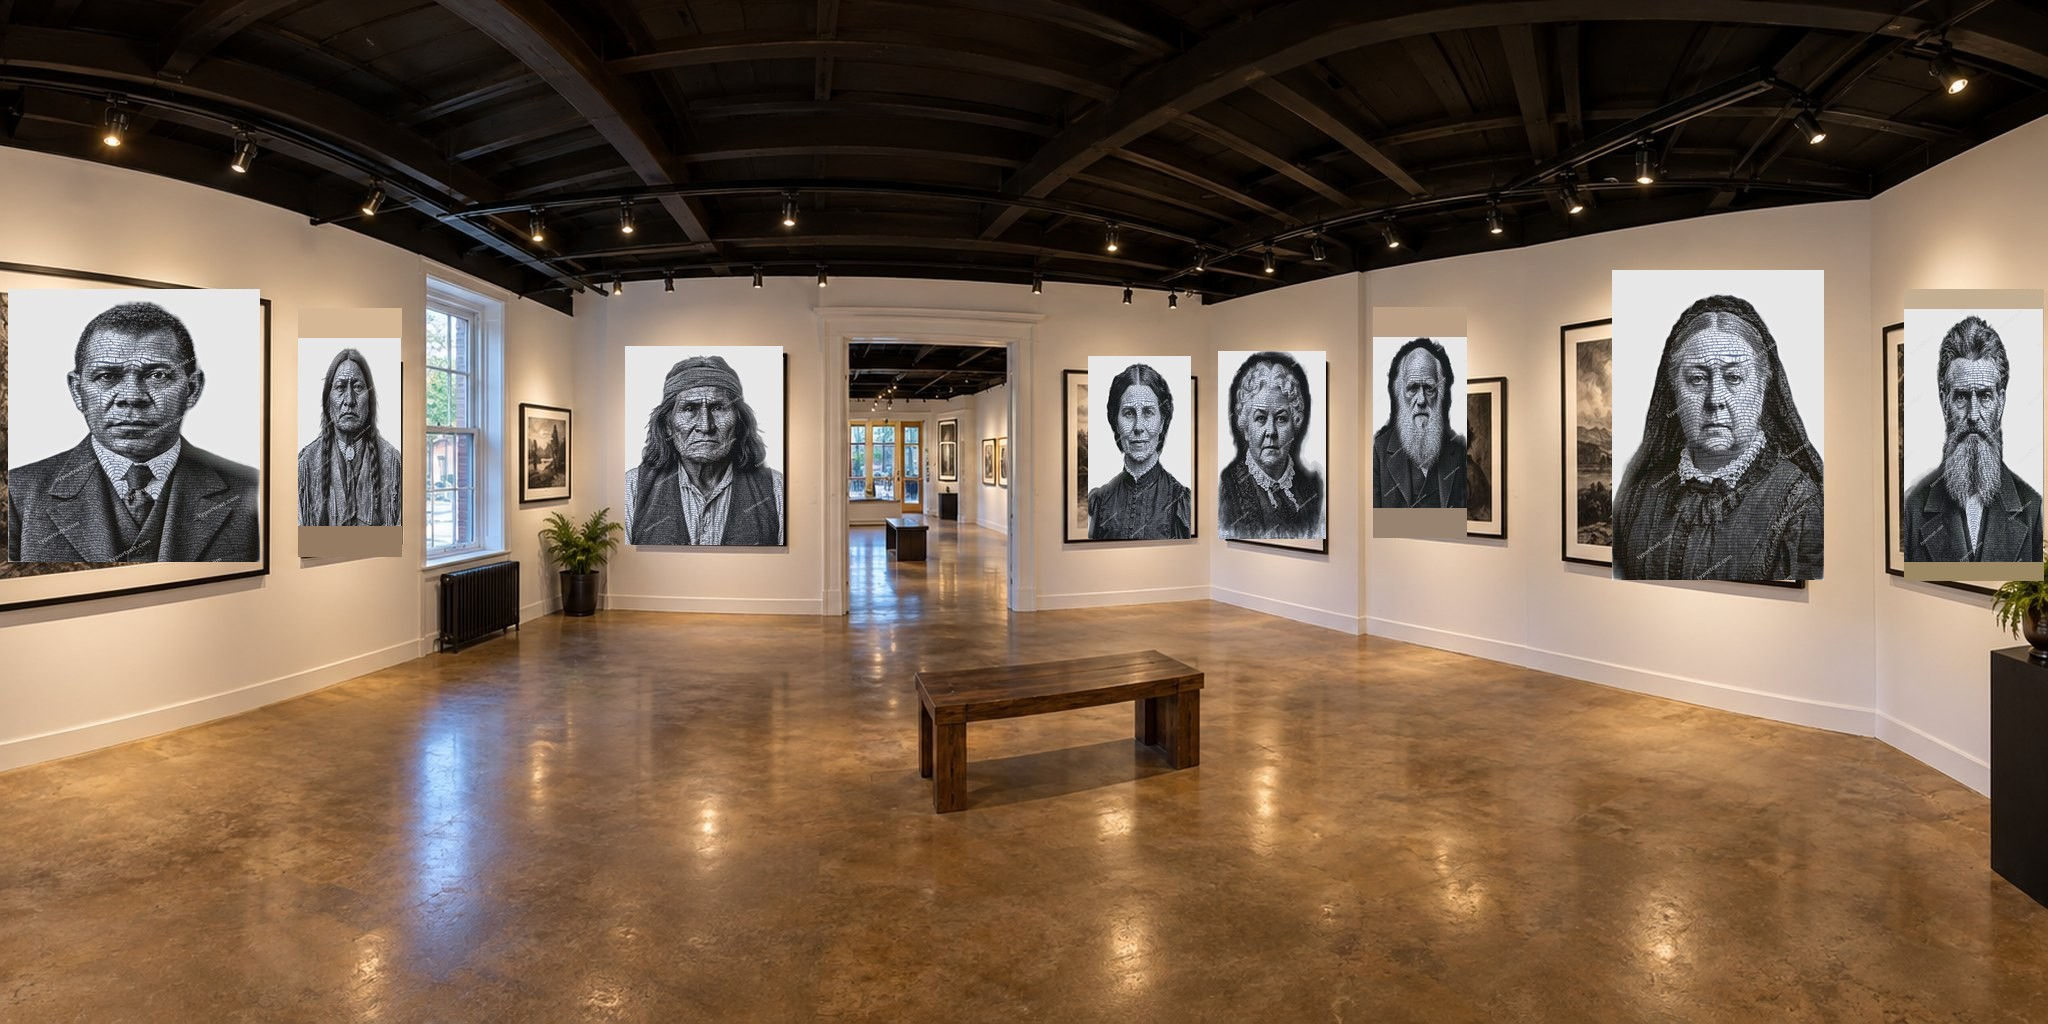
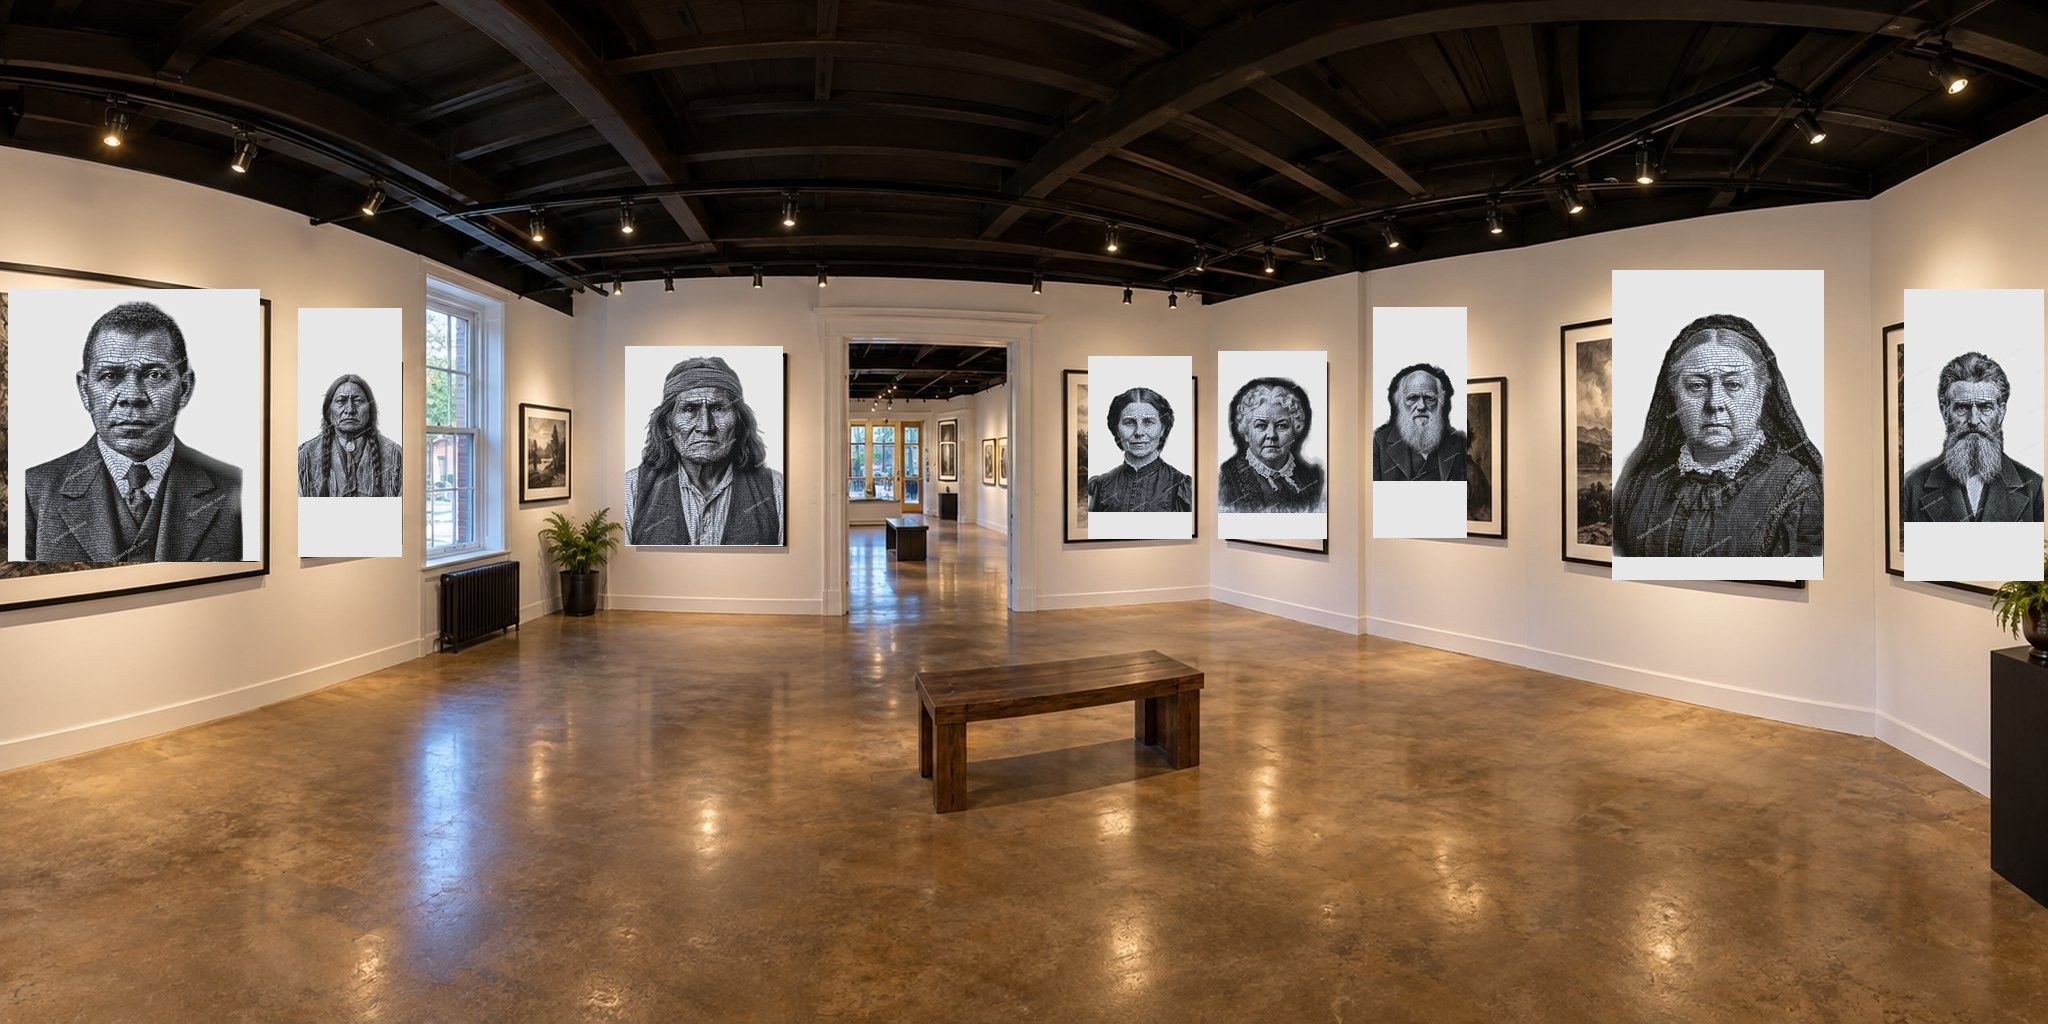
Fix photo tour: always fully replace the frame, never distort or leave a patch
The previous bake stretched each portrait to fill its measured frame region,
with a clamp for extreme-aspect frames that left a locally-color-sampled
margin instead of stretching. Both of those were still compromises: the
stretch distorted faces on odd-shaped frames, and the clamp's margin -- even
color-matched -- was still a patch standing in for something, not actually
part of the piece.

Replaced both with one rule, applied to every region the same way: resize
the portrait to its own true, undistorted proportions to fill as much of the
region as it can, then center it on a canvas of the portrait's OWN backdrop
color (sampled from the source PNGs themselves, consistent across the whole
catalog) sized to the full region. This always replaces the entire frame --
never leaves any of the original photographed art visible -- and never
stretches a face out of shape. Where a frame's real shape doesn't match a
portrait's, what fills the difference is more of that portrait's own plain
background, so it reads as the piece being mounted at whatever size the wall
called for, not as a crop, a stretch, or a patch standing in for one.

Claude-Session: https://claude.ai/code/session_01XwVU5cc41rNpqSZeMAKs6S

diff --git a/typography_engine/static/gallery.html b/typography_engine/static/gallery.html
@@ -464,7 +464,7 @@ let raycaster, pointerNDC;   // built in initRenderer, once THREE is actually lo
 // Each photo can only show as many portraits as it has real frames worth pasting into
 // (19 of 23 across all three rooms) -- the remaining 4 still sell fine from the grid
 // and the corridor, they just don't have a natural-looking wall spot in these photos.
-const PHOTO_BAKE_VERSION = 3;    // bump whenever the baked panorama JPGs are regenerated
+const PHOTO_BAKE_VERSION = 4;    // bump whenever the baked panorama JPGs are regenerated
 const PHOTO_ROOM_RADIUS = 900;   // the panorama sphere
 const PHOTO_FRAME_RADIUS = 650;  // depth of the invisible click targets (matches bake)
 // Yaw values below are pre-corrected for THREE's actual SphereGeometry UV convention

diff --git a/typography_engine/ops/photoscene-composite.py b/typography_engine/ops/photoscene-composite.py
@@ -34,11 +34,10 @@ do NOT re-derive yaw from pixel position by the "obvious" formula without this
 correction, or captions/click-targets will land near the right neighborhood but not on
 the actual baked portrait, which is exactly what happened here before this was found.
 """
-import json
 import math
 from pathlib import Path
 
-from PIL import Image, ImageStat
+from PIL import Image
 
 ROOT = Path(__file__).resolve().parent.parent
 ART_DIR = ROOT / "static/gallery/art"
@@ -86,46 +85,37 @@ W, H = 2048, 1024
 RADIUS = 650  # matches PHOTO_FRAME_RADIUS in gallery.html
 
 
-ART_ASPECT = 900 / 1125  # w/h of the source portrait PNGs (0.8)
-# How far a region's own aspect ratio may stretch the portrait before it's visibly
-# distorted (a squished-narrow or smeared-wide face) rather than just mildly stretched.
-ASPECT_BAND = (0.55, 1.5)
+# The portrait PNGs are a bust on a plain, near-uniform backdrop -- sampled from a
+# corner pixel, consistent across the whole catalog (checked several at (3,3)).
+ART_BG = (231, 231, 231)
 
 
 def inner_box(x0, y0, x1, y1):
-    """Full-bleed: the region minus a hairline margin for the real frame's own inner
-    edge. A first version tried to preserve the portrait's 4:5 aspect by fitting a
-    smaller centered box inside the region -- for any region whose real aspect ratio
-    wasn't close to 4:5 (most of them), that left a visible strip of the ORIGINAL
-    photographed art uncovered along one or two edges. Stretching to fill the region
-    completely eliminates that, and works fine for most regions -- but a handful are
-    extreme (a very wide landscape frame, or a very tall narrow one), and stretching a
-    portrait to fill THOSE smears or squishes the face into something unrecognizable.
-    See clamp_box() for how those are handled instead."""
+    """The region minus a hairline margin for the real frame's own inner edge -- the
+    area to fully replace."""
     margin_x, margin_y = (x1 - x0) * 0.03, (y1 - y0) * 0.03
     return x0 + margin_x, y0 + margin_y, x1 - margin_x, y1 - margin_y
 
 
-def clamp_box(bx0, by0, bx1, by1):
-    """For a region whose aspect ratio is too far from the portrait's to stretch
-    without visible distortion, shrink to the nearest aspect within ASPECT_BAND
-    (centered in the region) and report the leftover margin rectangles (0, 1 or 2 of
-    them -- one pair if clamped, none if the region was already within band) so the
-    caller can fill them separately instead of leaving the ORIGINAL art showing."""
-    w, h = bx1 - bx0, by1 - by0
-    aspect = w / h
-    cx, cy = (bx0 + bx1) / 2, (by0 + by1) / 2
-    if aspect > ASPECT_BAND[1]:              # region too wide -- clamp width
-        new_w = h * ASPECT_BAND[1]
-        px0, px1 = cx - new_w / 2, cx + new_w / 2
-        margins = [(bx0, by0, px0, by1), (px1, by0, bx1, by1)]
-        return (px0, by0, px1, by1), margins
-    if aspect < ASPECT_BAND[0]:               # region too narrow/tall -- clamp height
-        new_h = w / ASPECT_BAND[0]
-        py0, py1 = cy - new_h / 2, cy + new_h / 2
-        margins = [(bx0, by0, bx1, py0), (bx0, py1, bx1, by1)]
-        return (bx0, py0, bx1, py1), margins
-    return (bx0, by0, bx1, by1), []
+def fit_on_own_background(art, bw, bh):
+    """Resize the portrait to COVER the region at its own true aspect ratio (never
+    stretched or cropped into the subject) and place it centered on a canvas of the
+    art's own backdrop color, sized to the full region. Two earlier approaches both
+    replaced less than the whole region: fitting a smaller aspect-correct box inside
+    it left the ORIGINAL photographed art showing around the edges; stretching to fill
+    the region completely fixed that but visibly distorted the face on any frame whose
+    aspect ratio was far from the portrait's. This replaces the ENTIRE region every
+    time, at the portrait's real proportions every time -- the "leftover" space (when
+    the frame's own shape doesn't match a portrait) is filled with more of the
+    portrait's OWN plain background, not the wall's, not a foreign texture, so it
+    reads as this piece being mounted larger/smaller, never as a patch or a crop."""
+    aw, ah = art.size
+    scale = min(bw / aw, bh / ah)
+    rw, rh = max(1, round(aw * scale)), max(1, round(ah * scale))
+    resized = art.resize((rw, rh), Image.LANCZOS)
+    canvas = Image.new("RGB", (bw, bh), ART_BG)
+    canvas.paste(resized, ((bw - rw) // 2, (bh - rh) // 2))
+    return canvas
 
 
 def yaw_pitch(px, py):
@@ -152,23 +142,12 @@ def main():
         for (x0, y0, x1, y1) in regions:
             it = ITEMS[idx]; idx += 1
             bx0, by0, bx1, by1 = inner_box(x0, y0, x1, y1)
-            (px0, py0, px1, py1), margins = clamp_box(bx0, by0, bx1, by1)
+            bx0i, by0i, bx1i, by1i = (int(round(v)) for v in (bx0, by0, bx1, by1))
+            bw, bh = bx1i - bx0i, by1i - by0i
 
-            # Fill any leftover margin (only for regions whose aspect was clamped)
-            # with a color sampled from that SAME margin strip in the original photo
-            # -- close enough to the real local wall/mat tone to blend, unlike a single
-            # fixed color used everywhere regardless of each region's own lighting.
-            for (mx0, my0, mx1, my1) in margins:
-                mx0i, my0i, mx1i, my1i = (int(round(v)) for v in (mx0, my0, mx1, my1))
-                if mx1i <= mx0i or my1i <= my0i:
-                    continue
-                strip = im.crop((mx0i, my0i, mx1i, my1i))
-                avg = tuple(int(c) for c in ImageStat.Stat(strip).mean[:3])
-                im.paste(Image.new("RGB", (mx1i - mx0i, my1i - my0i), avg), (mx0i, my0i))
-
-            pw, ph = int(round(px1 - px0)), int(round(py1 - py0))
-            art = Image.open(ART_DIR / f"{it}.png").convert("RGB").resize((pw, ph), Image.LANCZOS)
-            im.paste(art, (int(round(px0)), int(round(py0))))
+            art = Image.open(ART_DIR / f"{it}.png").convert("RGB")
+            replacement = fit_on_own_background(art, bw, bh)
+            im.paste(replacement, (bx0i, by0i))
             yaw, pitch = yaw_pitch((bx0 + bx1) / 2, (by0 + by1) / 2)
             ww, wh = world_size(bx0, by0, bx1, by1)
             js_lines.append(
